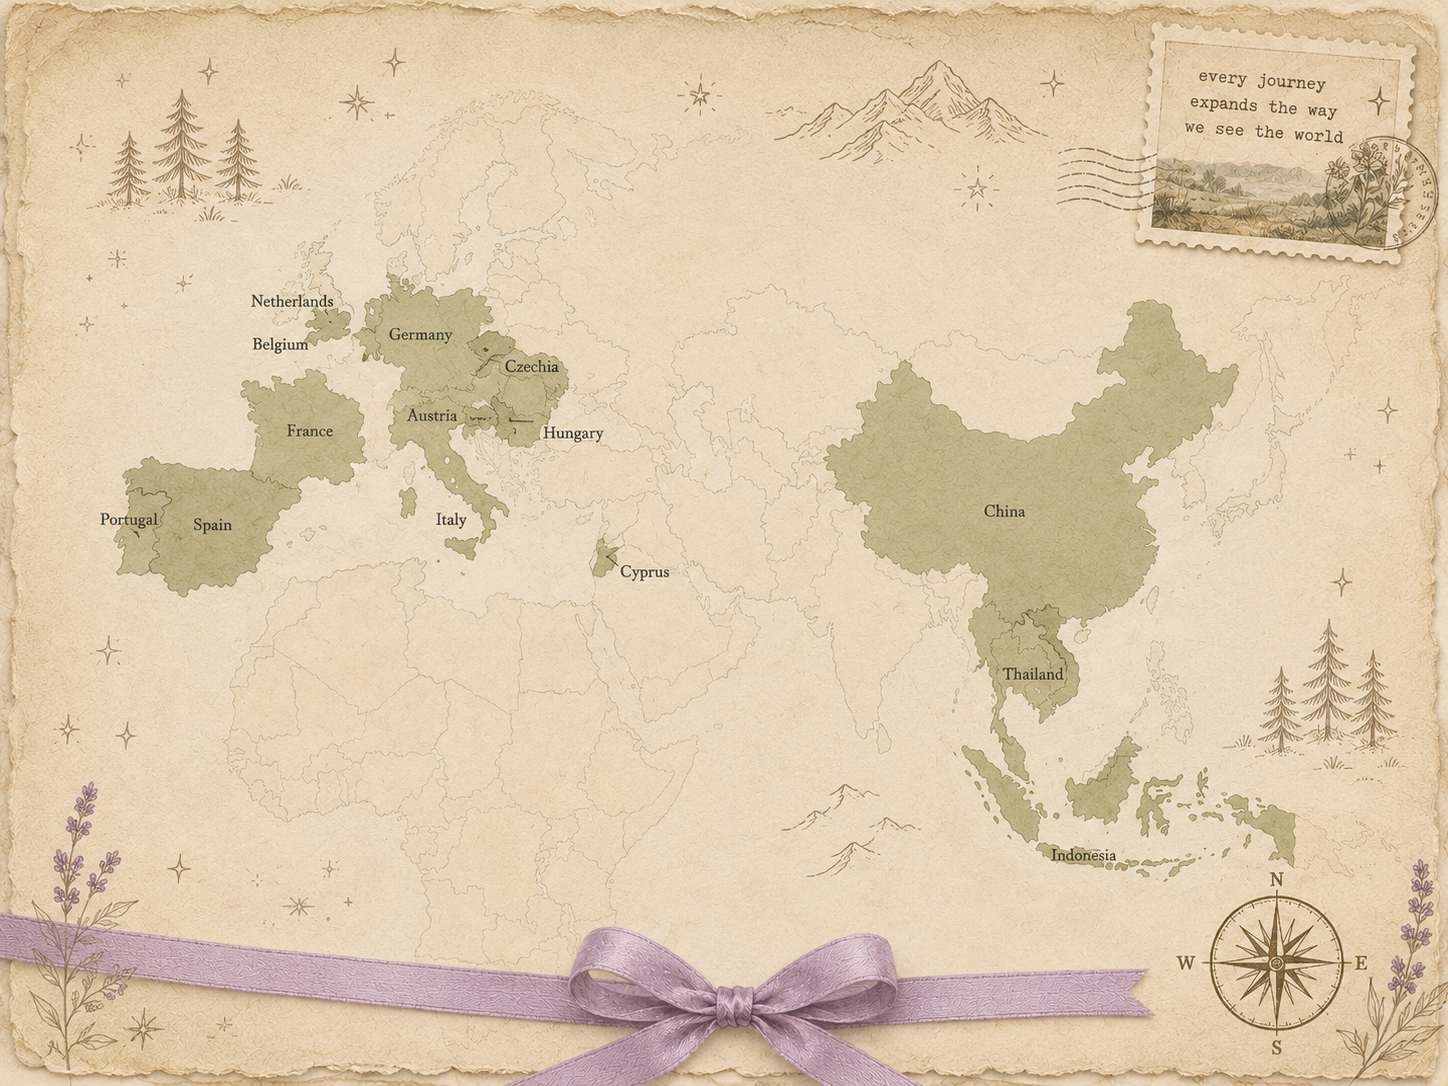
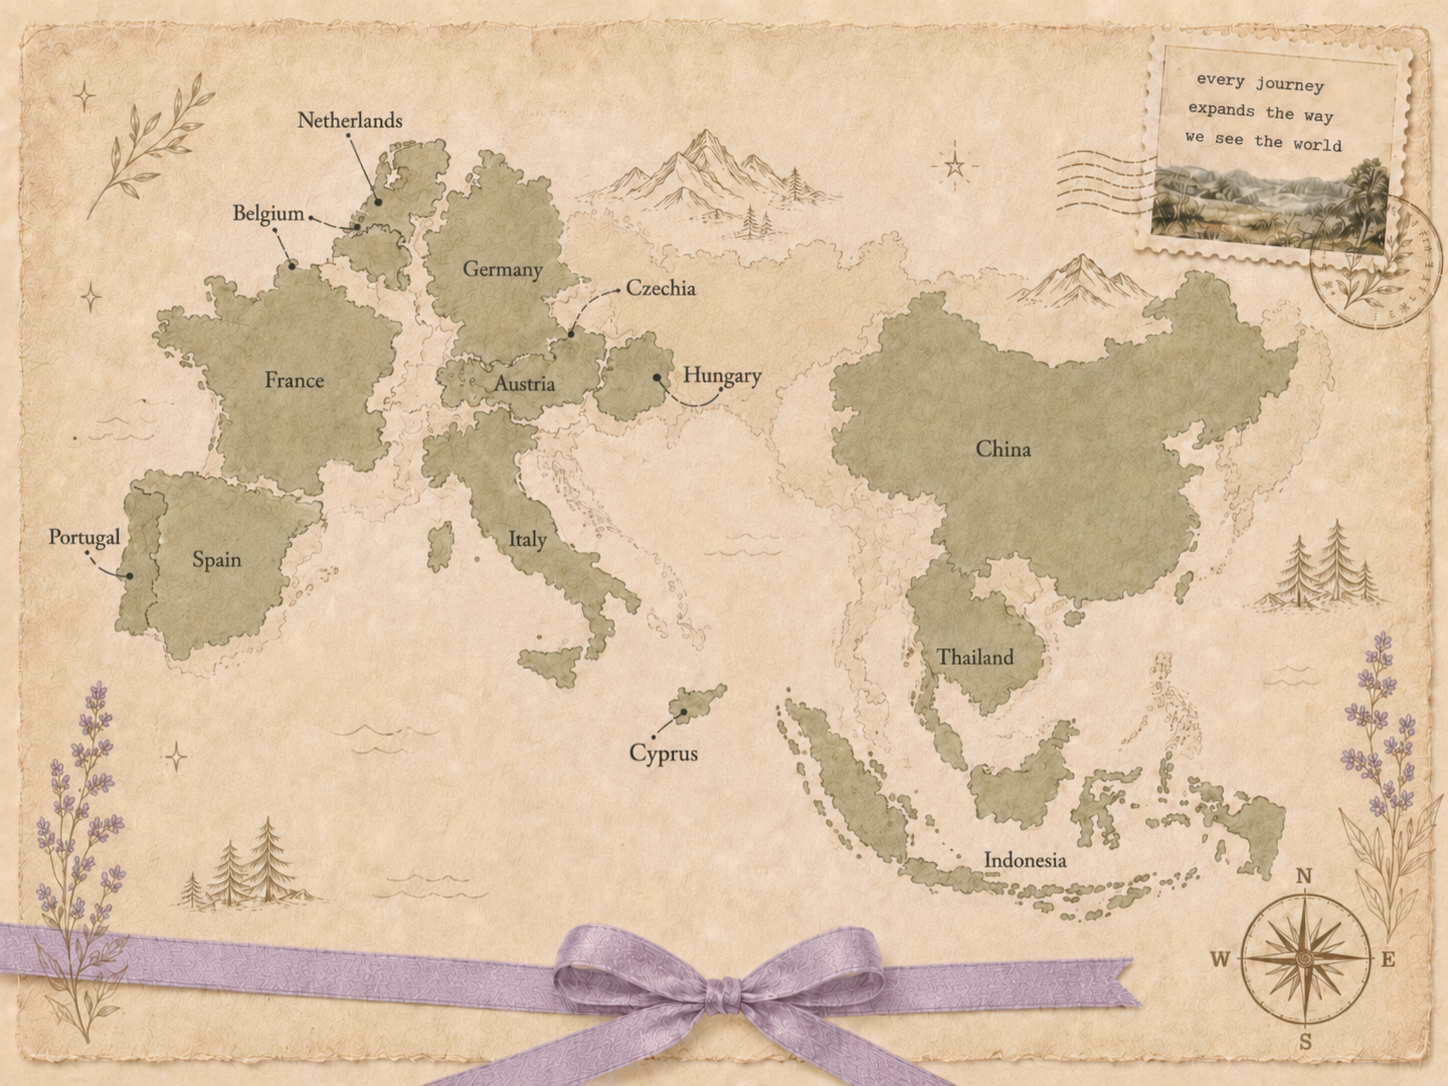
Add files via upload

diff --git a/src/styles.css b/src/styles.css
@@ -280,7 +280,9 @@ h1 {
 
 .heroTitleCn {
   font-family: "HanziPen SC", "翩翩体-简", "HanziPen TC", "PingFang SC", "Microsoft YaHei", cursive;
+  font-size: 56px;
   font-weight: 400;
+  line-height: 1.12;
 }
 
 h2 {
@@ -440,9 +442,9 @@ h2 {
   max-width: 600px;
   margin-bottom: 28px;
   color: var(--olive);
-  font-family: "Bradley Hand", "Segoe Print", "Comic Sans MS", "PingFang SC", "Microsoft YaHei", "Heiti SC", cursive;
+  font-family: "HanziPen SC", "翩翩体-简", "HanziPen TC", "PingFang SC", "Microsoft YaHei", cursive;
   font-size: clamp(32px, 2.8vw, 46px);
-  font-weight: 700;
+  font-weight: 400;
   line-height: 1.12;
   transform: rotate(-1deg);
 }
@@ -450,8 +452,18 @@ h2 {
 .introCard p:not(.smallHand) {
   max-width: 800px;
   color: var(--brown);
+  font-family: "HanziPen SC", "翩翩体-简", "HanziPen TC", "PingFang SC", "Microsoft YaHei", cursive;
   font-size: 18px;
   line-height: 1.85;
+}
+
+.introCopy {
+  font-family: "HanziPen SC", "翩翩体-简", "HanziPen TC", "PingFang SC", "Microsoft YaHei", cursive;
+}
+
+.latinKeep {
+  font-family: "Helvetica Neue", Arial, sans-serif;
+  font-weight: 500;
 }
 
 .resumeBoard {
@@ -763,6 +775,10 @@ h2 {
   font-size: clamp(30px, 2.6vw, 48px);
   font-weight: 400;
   line-height: 1.15;
+}
+
+.workTitleLine {
+  display: block;
 }
 
 .workTags {

diff --git a/src/App.jsx b/src/App.jsx
@@ -39,6 +39,7 @@ const works = [
   {
     no: '02',
     title: 'E-Talent Pte.Ltd. / 易特新景',
+    titleLines: ['E-Talent Pte.Ltd.', '易特新景'],
     duties: '海外品牌内容 / 公众号 / 小红书 / 内容模块搭建',
     images: [asset('assets/optimized/ppt/ppt-media-23.jpg'), asset('assets/optimized/e-talent-team-plog.jpg')],
     copy:
@@ -349,11 +350,12 @@ function App() {
         <div className="aboutGrid">
           <div className="noteCard introCard">
             <p className="smallHand">About Me</p>
-            <h2>做内容，也搭系统。</h2>
-            <p>
-              Stone，目前居住在德国 Nordrhein-Westfalen。我的经历横跨自由职业社区、出海品牌内容、新媒体矩阵、海外达人商务和数字游民社区运营。
+            <h2 className="introCn">做内容，也搭系统。</h2>
+            <p className="introCopy">
+              <span className="latinKeep">Stone</span>，目前居住在德国{' '}
+              <span className="latinKeep">Nordrhein-Westfalen</span>。我的经历横跨自由职业社区、出海品牌内容、新媒体矩阵、海外达人商务和数字游民社区运营。
             </p>
-            <p>
+            <p className="introCopy">
               擅长把分散的创意，整理成可以执行、可以复盘、可以带来增长的内容系统：从用户理解、选题规划、文案表达、视觉制作，到数据复盘、私域咨询和转化路径。
             </p>
             <span className="archiveDeco tapeOne" aria-hidden="true" />
@@ -389,7 +391,11 @@ function App() {
               <div className="workNo">{work.no}</div>
               <div className="workText">
                 <p>Project {work.no}</p>
-                <h3>{work.title}</h3>
+                <h3>
+                  {(work.titleLines ?? [work.title]).map((line) => (
+                    <span className="workTitleLine" key={line}>{line}</span>
+                  ))}
+                </h3>
                 <div className="workTags">
                   {work.duties.split(' / ').map((item) => (
                     <span key={item}>{item}</span>